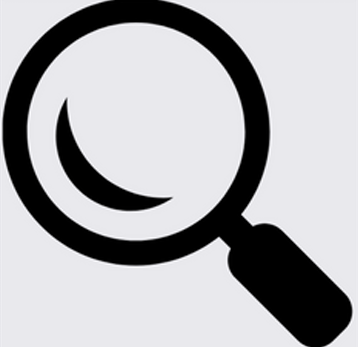
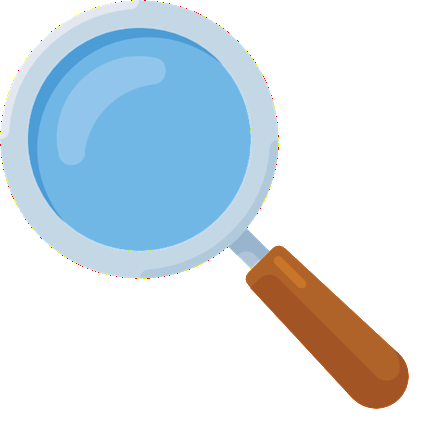
12
awad

diff --git a/estilos.css b/estilos.css
@@ -4,12 +4,100 @@
     font-family: 'Segoe UI', Tahoma, Geneva, Verdana, sans-serif;
     box-sizing: border-box;
 }
+
 body {
     background: #222;
 }
+
 .contenedor {
     width: 90%;
     max-width: 470px;
     background: linear-gradient(125deg, #00feba, #5b548a);
     color: #fff;
+    margin: 100px auto 0;
+    border-radius: 20px;
+    padding: 40px 35px;
+    text-align: center;
+}
+
+.buscador {
+    width: 100%;
+    display: flex;
+    align-items: center;
+    justify-content: space-between;
+}
+
+input {
+    border: 0;
+    outline: 0;
+    background: #ebfffc;
+    color: #555;
+    padding: 10px 25px;
+    height: 60px;
+    border-radius: 30px;
+    flex: 1;
+    margin-right: 16px;
+    font-size: 18px;
+}
+
+button {
+    border: 0;
+    outline: 0;
+    background: #ebfffc;
+    border-radius: 50%;
+    width: 60px;
+    height: 60px;
+    cursor: pointer;
+}
+button img {
+    width: 25px;
+}
+button:hover {
+    background: #739893;
+    color: #ddd;
+}
+
+.clima-icono {
+    width: 170px;
+    margin-top: 30px;
+}
+
+.clima-texto {
+    font-size: 15px;
+    margin-top: 25px;
+    margin-bottom: -25px;
+    font-style: italic;
+}
+
+h1 {
+    font-size: 80px;
+    font-weight: 500;
+}
+
+h2 {
+    font-size: 45px;
+    font-weight: 400;
+    margin-top: -10px;
+}
+.detalles {
+    display: flex;
+    align-items: center;
+    justify-content: space-between;
+    padding: 0 20px;
+    margin-top: 50px;
+}
+
+.col {
+    display: flex;
+    align-items: center;
+    text-align: left;
+}
+
+.col img {
+    width: 40px;
+    margin-right: 10px;
+}
+.humedad, .viento {
+    font-size: 28px;
+    margin-top: -6px;
 }

diff --git a/index.html b/index.html
@@ -8,8 +8,8 @@
     <link rel="stylesheet" href="estilos.css">
 </head>
 <body>
-    <div class="contenedor"></div>
-        <div class="buscador"></div>
+    <div class="contenedor">
+        <div class="buscador">
         <input 
         type="text"
         placeholder="Ingresa nombre de la ciudad"
@@ -18,10 +18,32 @@
         id="input-ciudad"
         />
         <button onclick="obtenerClima()">
-            <img src="imagenes/buscar.png" alt="">
+            <img src="imagenes/buscar.png"/>
         </button>
-        <div class="clima-info"></div>
-
-    <script src="./estilos.css"></script>
+        </div>
+        <div class="clima-info">
+        <p class="clima-texto">Parcialmente nublado</p>
+        <img src="imagenes/clima-ejemplo.png" class="clima-icono" />
+        <h1 class="temp">22c</h1>
+        <h2 class="ciudad">Huancayo</h2>
+        <div class="detalles">
+            <div class="col">
+                <img src="imagenes/Humedad.png" />
+                <div>
+                    <p class="humedad">50%</p>
+                    <p>Humedad</p>
+                </div>
+            </div>
+            <div class="col">
+                <img src="imagenes/viento.png" />
+                <div>
+                    <p class="viento">15 km/h</p>
+                    <p>Viento</p>
+                </div>
+            </div>
+        </div>
+    </div>
+    </div>
+    <script src="./codijo.js"></script>
 </body>
 </html>

diff --git a/api-test.js b/api-test.js
@@ -1,0 +1,15 @@
+const claveApi = '3037ed2e73aa4f0bb99170825261509';
+const idioma = 'es';
+const ciudad = 'Huancayo';
+
+const apiClimaActual = `https://api.weatherapi.com/v1/current.json?q=${ciudad}&lang=${idioma}&key=${claveApi}`;
+
+(async () => {
+    try {
+        const response = await fetch(apiClimaActual);
+        let data = await response.json();
+        console.log(data);
+    } catch (error) {
+        console.error("Hubo un error al obtener el clima:", error);
+    }
+})();
